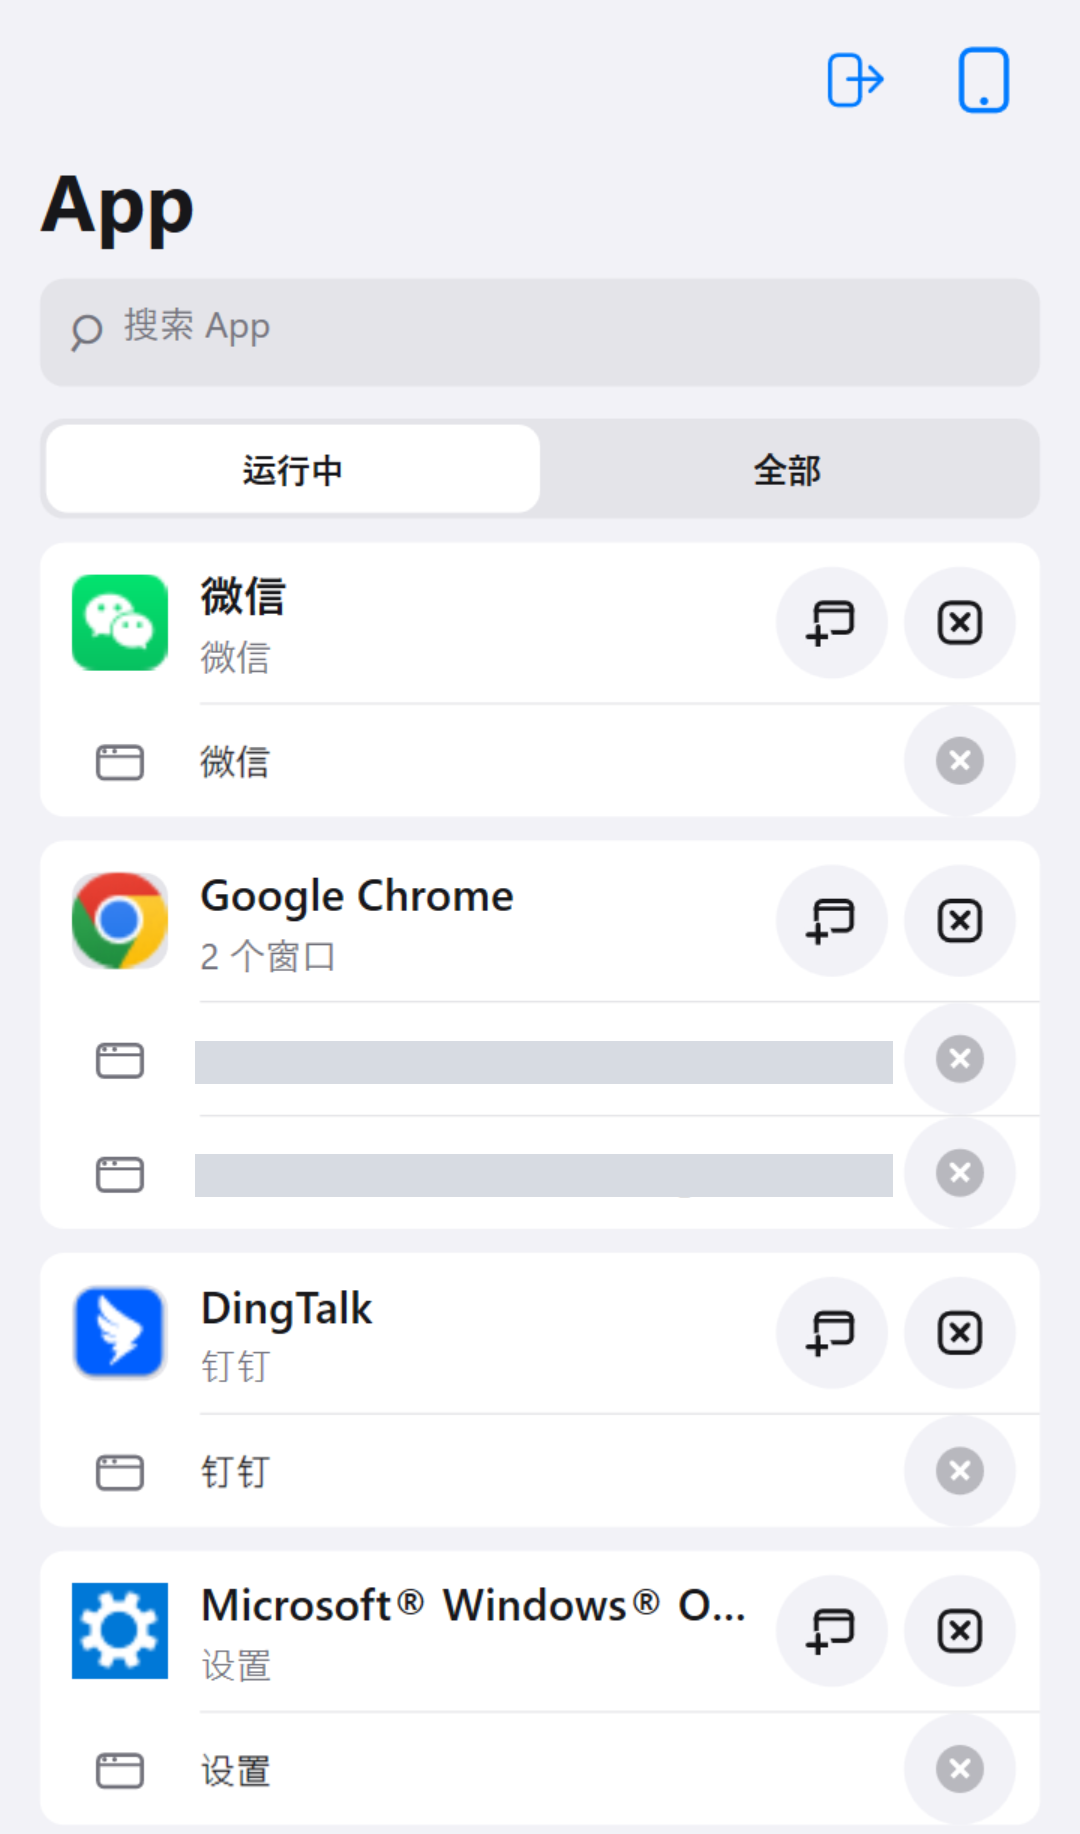
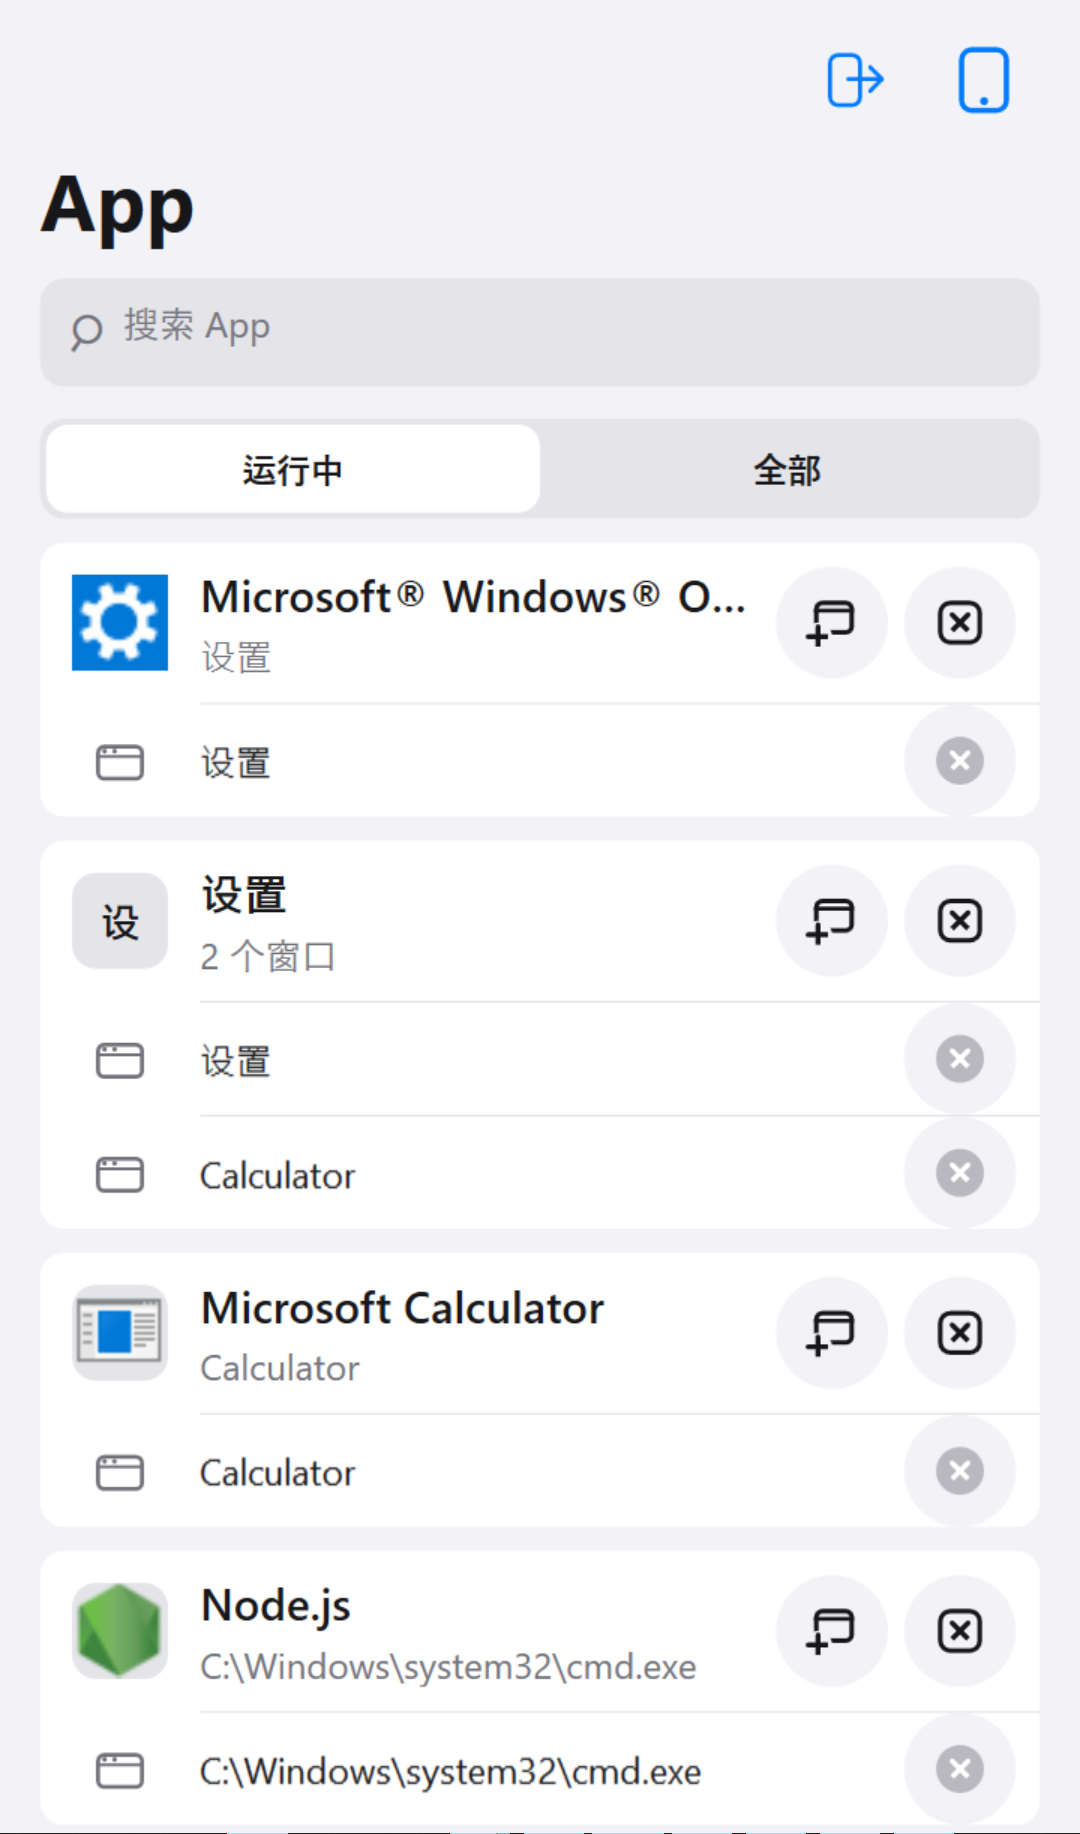
docs: refresh app library from live 0.2.38 phone display

diff --git a/Assets/WindowsMedia/README.md b/Assets/WindowsMedia/README.md
@@ -4,7 +4,7 @@ The README prioritizes actual Windows application and virtual-display captures, 
 
 | File | Origin |
 | --- | --- |
-| phone-running.png | Actual Windows virtual display capture from 0.2.22, November 16, 2026. Private browser-window titles redacted. |
+| phone-running.png | Actual Snug 0.2.38 Windows virtual display captured November 18, 2026, with UU connected. Native 1080 × 1834 pixels; app library shows Windows Settings, Calculator and Node.js. |
 | phone-browser-fit.png | Actual Windows virtual display capture from 0.2.17, November 16, 2026 (SNUG_0.2.17_BAR_RAISED.png). Chrome renders the browser-fit validation page; the return bar is visible. Local address path redacted. |
 | phone-all-apps.png | Actual 0.2.38 WPF catalog preview, November 18. |
 | phone-search.png | Actual 0.2.38 WPF catalog preview, November 18; searching for Notepad. |
